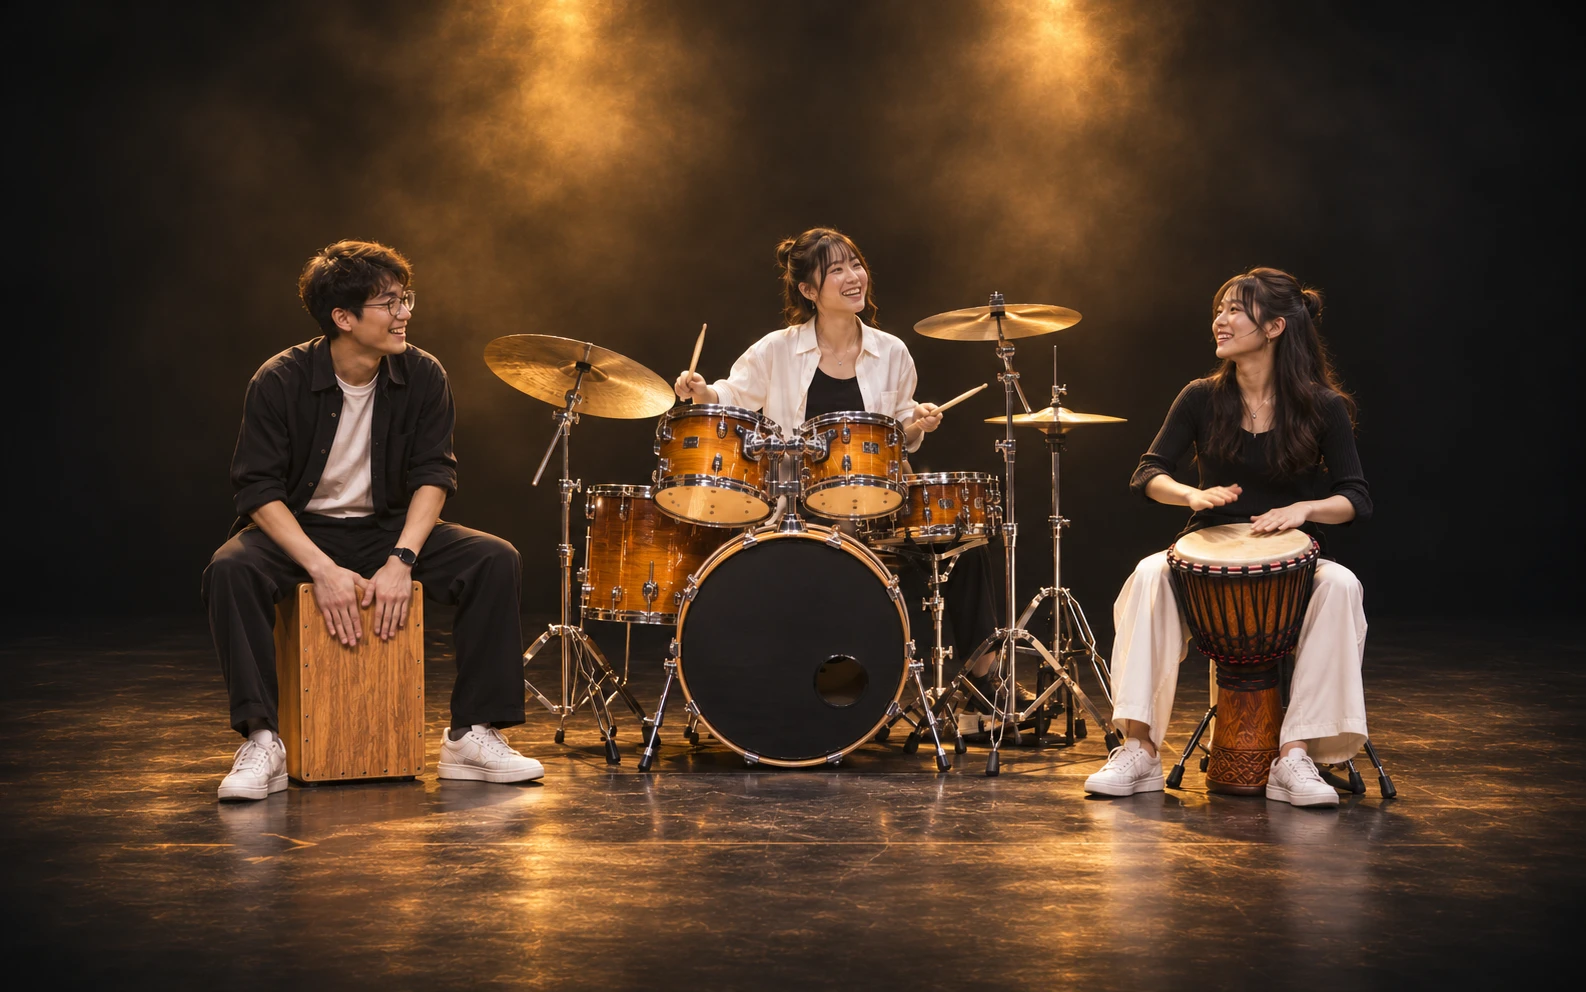
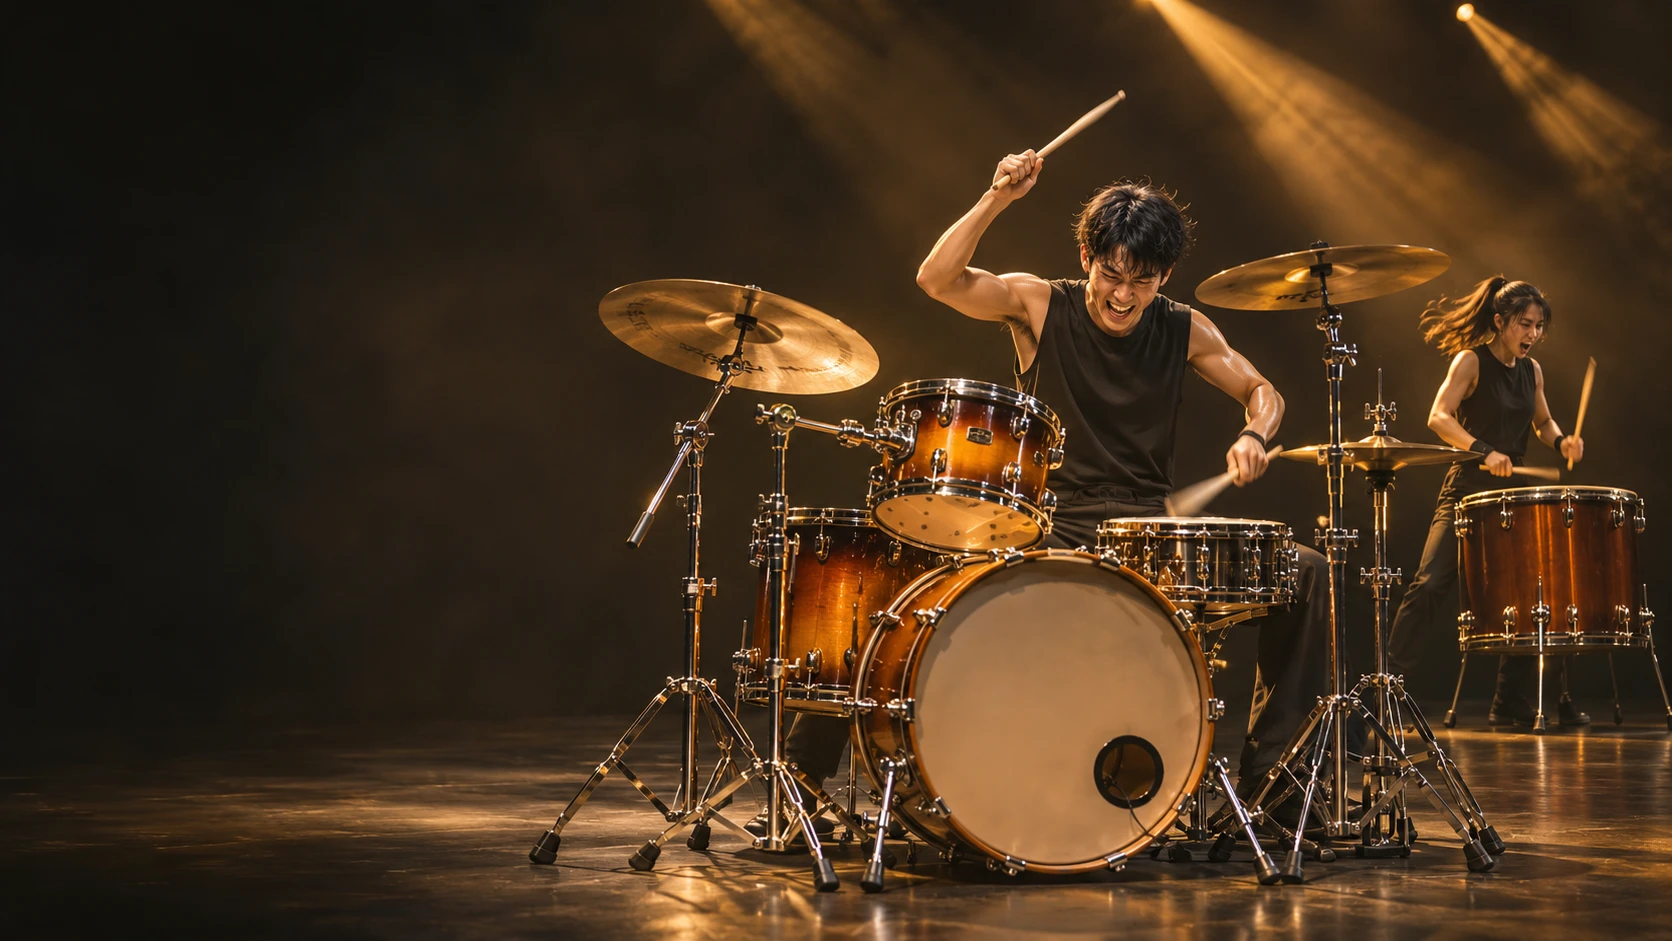
Feature energetic live drumming with an uncropped full-width hero

diff --git a/liu-0211-work2.html b/liu-0211-work2.html
@@ -27,18 +27,30 @@ main a:focus-visible,main button:focus-visible,main input:focus-visible,main tex
 }
 @media(max-width:360px){.brand-type strong{font-size:28px}.brand-type{gap:9px}.brand-sub{letter-spacing:1px}.brand-logo{width:42px;height:42px}.brand{gap:9px}.nav{font-size:18px}.signup-table tr:last-child td{display:block}.signup-table input[type=submit],.signup-table input[type=reset]{width:100%}}
 
-/* 首屏图文分栏：照片按原始比例完整显示，文字不覆盖画面。 */
+
+
+
+
+
+
+
+
+
+
+
+
+
+/* 完整现场照片：原比例决定首屏高度；标题叠于左侧暗部，不裁切上下画面。 */
 .hero{background:var(--black);color:var(--white)}
-.hero-layout{width:calc(100% - 80px);max-width:1760px;margin:0 auto;display:grid;grid-template-columns:minmax(300px,.72fr) minmax(0,1.8fr);align-items:center;gap:0;padding:0 0 12px}
-.hero-content{min-width:0;padding:12px 0 12px clamp(0px,calc((100vw - 1600px)/2),80px)}
-.hero h1{font-size:clamp(50px,4.8vw,84px);line-height:1.17;letter-spacing:-3px;font-weight:950;margin:0 0 28px}
-.hero h1 em{font-style:normal;color:var(--yellow);font-size:.6em;margin-left:.12em}
-.hero-desc{font-size:22px;line-height:1.8;font-weight:700;margin:0 0 30px;max-width:380px}
-.hero-visual{min-width:0;margin:0;-webkit-mask-image:linear-gradient(to right,transparent,#000 12%,#000 88%,transparent),linear-gradient(to bottom,transparent,#000 14%,#000 86%,transparent);mask-image:linear-gradient(to right,transparent,#000 12%,#000 88%,transparent),linear-gradient(to bottom,transparent,#000 14%,#000 86%,transparent);-webkit-mask-composite:source-in;mask-composite:intersect}
+.hero-layout{display:grid;grid-template-columns:minmax(0,1fr);width:100%;margin:0;isolation:isolate}
+.hero-visual{grid-area:1/1;min-width:0;margin:0;align-self:center}
 .hero-photo{display:block;position:static;width:100%;height:auto;max-width:100%;object-fit:contain}
-@media(min-width:761px) and (max-width:1100px){.hero-layout{grid-template-columns:minmax(280px,.85fr) minmax(0,1.35fr);gap:26px}.hero h1{font-size:52px}.hero-desc{font-size:20px}.hero .button{font-size:24px;padding:14px 24px}}
-@media(max-width:900px){.hero-layout{grid-template-columns:1fr;padding:18px 0 32px;gap:26px}.hero-visual{grid-row:1}.hero-content{padding:0}.hero h1{font-size:62px}.hero-desc{max-width:none}}
-@media(max-width:760px){.hero-layout{width:calc(100% - 36px);padding:0 0 30px;gap:8px}.hero-visual{margin:0 -18px}.hero h1{font-size:clamp(40px,11.5vw,62px);line-height:1.15;letter-spacing:-2px;margin-bottom:20px}.hero-desc{font-size:20px;margin-bottom:24px}.hero .button{width:100%;font-size:23px;min-height:55px}}
+.hero-content{grid-area:1/1;z-index:1;align-self:center;min-width:0;width:34%;margin-left:4.5%;padding:24px 0}
+.hero h1{font-size:clamp(44px,5.2vw,100px);line-height:1.15;letter-spacing:-3px;font-weight:950;margin:0 0 28px}
+.hero h1 em{font-style:normal;color:var(--yellow);font-size:.6em;margin-left:.1em}
+.hero-desc{font-size:clamp(18px,1.5vw,24px);line-height:1.8;font-weight:700;margin:0 0 30px;max-width:430px}
+@media(min-width:761px) and (max-width:1100px){.hero h1{margin-bottom:20px;letter-spacing:-2px}.hero-desc{margin-bottom:22px}.hero .button{font-size:23px;padding:12px 22px;gap:20px}}
+@media(max-width:760px){.hero-layout{display:flex;flex-direction:column}.hero-visual{order:0;width:100%}.hero-content{order:1;width:auto;margin:0;padding:24px 22px 30px}.hero h1{font-size:clamp(40px,11.5vw,62px);letter-spacing:-2px;margin-bottom:20px}.hero-desc{max-width:none;font-size:20px;margin-bottom:24px}.hero .button{width:100%;font-size:23px;min-height:55px}}
 </style>
 </head>
 <body id="top">
@@ -49,7 +61,7 @@ main a:focus-visible,main button:focus-visible,main input:focus-visible,main tex
   <header class="site-header"><div class="wrap header-inner"><a class="brand" href="#top" aria-label="鼓点打击乐社，返回顶部"><img class="brand-logo" src="gudian-logo.svg" alt="鼓点鼓点标志" width="96" height="96"><span class="brand-type"><strong>鼓点</strong><span class="brand-sub">打击乐社</span></span></a>
     <!-- 要求2：五对页内锚点链接。 -->
     <nav class="nav" aria-label="主要导航"><a href="#intro">社团简介</a><a href="#activities">活动安排</a><a href="#showcase">风采展示</a><a href="#stories">社员故事</a><a class="nav-join" href="#signup">在线报名 <span aria-hidden="true">↗</span></a></nav></div></header>
-  <section class="hero" aria-labelledby="hero-title"><div class="hero-layout"><div class="hero-content"><h1 id="hero-title">把心跳，<br>敲成现场<em>▪</em></h1><p class="hero-desc">2026 春季招新 · 零基础也能加入</p><a class="button" href="#signup">加入鼓点 <span aria-hidden="true">↗</span></a></div><figure class="hero-visual"><img class="hero-photo" src="club-hero.webp?v=expanded-20261104" alt="三位大学生在金色舞台灯光下合奏鼓组、箱鼓与手鼓的AI创作场景" width="1586" height="992" fetchpriority="high"></figure></div></section><div class="beat-strip" aria-label="乐器与合奏方向"><span>鼓组</span><span>手鼓</span><span>箱鼓</span><span>合奏</span></div>
+  <section class="hero" aria-labelledby="hero-title"><div class="hero-layout"><div class="hero-content"><h1 id="hero-title">把心跳，<br>敲成现场<em>▪</em></h1><p class="hero-desc">2026 春季招新 · 零基础也能加入</p><a class="button" href="#signup">加入鼓点 <span aria-hidden="true">↗</span></a></div><figure class="hero-visual"><img class="hero-photo" src="club-hero.webp?v=live-20261104" alt="金色现场灯光下两位大学生鼓手充满力量地演奏打击乐的AI创作场景" width="1672" height="941" fetchpriority="high"></figure></div></section><div class="beat-strip" aria-label="乐器与合奏方向"><span>鼓组</span><span>手鼓</span><span>箱鼓</span><span>合奏</span></div>
   <main class="main-shell"><section class="section" id="intro" aria-labelledby="intro-title"><div class="section-heading"><div><div class="eyebrow">ABOUT THE CLUB</div><p class="section-kicker">社团简介</p><h2 id="intro-title">每一种声音，<br>都有你的位置。</h2></div><p class="section-lead">先学会倾听，再一起发声。这里容得下第一次拿起鼓槌的紧张，也接得住你想试的新节奏。</p></div><div class="instrument-grid"><figure class="instrument-card"><div class="instrument-photo" role="img" aria-label="鼓组与金色鼓镲特写AI图"></div><figcaption>鼓组</figcaption></figure><figure class="instrument-card"><div class="instrument-photo" role="img" aria-label="双手演奏非洲鼓特写AI图"></div><figcaption>手鼓</figcaption></figure><figure class="instrument-card"><div class="instrument-photo" role="img" aria-label="木质箱鼓演奏特写AI图"></div><figcaption>箱鼓</figcaption></figure></div><div class="prose"><p class="section-brief">不用先会打鼓，也能找到自己的位置。从握棒、数拍到一起合奏，我们把每一步拆开练。你带着好奇来，伙伴陪你慢慢进步。</p><ul class="quick-points"><li>零基础入门</li><li>多种乐器体验</li><li>小组合奏</li></ul><details class="reading"><summary>了解社团日常与练习方式</summary><div class="reading-body"><article><h3>从第一下鼓点开始</h3><p>鼓点打击乐社是一群喜欢节奏的同学相聚的地方。有人听见架子鼓就忍不住跟着点头，有人常在课桌边轻轻敲出旋律，也有人只想在忙碌的课程之外找到一件可以慢慢坚持的事。来到这里，不需要先证明自己会演奏。我们更在意你是否愿意认真听一次示范，耐心重复一个动作，并在伙伴需要时把速度放慢。第一次握住鼓棒时的生疏、第一次跟上节拍时的惊喜，都是学习的一部分。社团希望把这些小小的开始连在一起，让每位成员都有机会找到自己的声音。</p></article>
 <article><h3>认识打击乐的不同声音</h3><p>打击乐并不只有舞台中央的架子鼓。手掌落在手鼓的边缘与中心，会发出不同的音色；箱鼓看上去像一只简单的木箱，却能用低音和清脆的击打声撑起一首歌；沙锤、铃鼓等小乐器，也能在合奏中添上恰到好处的层次。社团的入门体验会轮流介绍这些乐器，让大家先听、再看、最后亲手尝试。选择方向时，我们鼓励根据自己的兴趣和身体感受作决定。有些人喜欢鼓组的力量，有些人偏爱手鼓围坐演奏的亲近感，这些选择都能在合奏里找到位置。</p></article>
 <article><h3>零基础也有清楚的起点</h3><p>新成员的练习从坐姿、握棒和放松开始，不急着追求速度。我们先用拍手分辨稳定的四拍，再借助节拍器练习双手交替，逐步认识休止、重音与简单的节奏型。带练成员会把一段示范拆成几个短小步骤，确认大家能听懂、能模仿，再把它们连起来。暂时跟不上时，可以只演奏其中的一拍，也可以先在练习垫上完成动作。课堂里不会把陌生术语当成门槛；不清楚就停下来问，问得具体，反而能帮助旁边的伙伴一起弄明白。</p></article>
